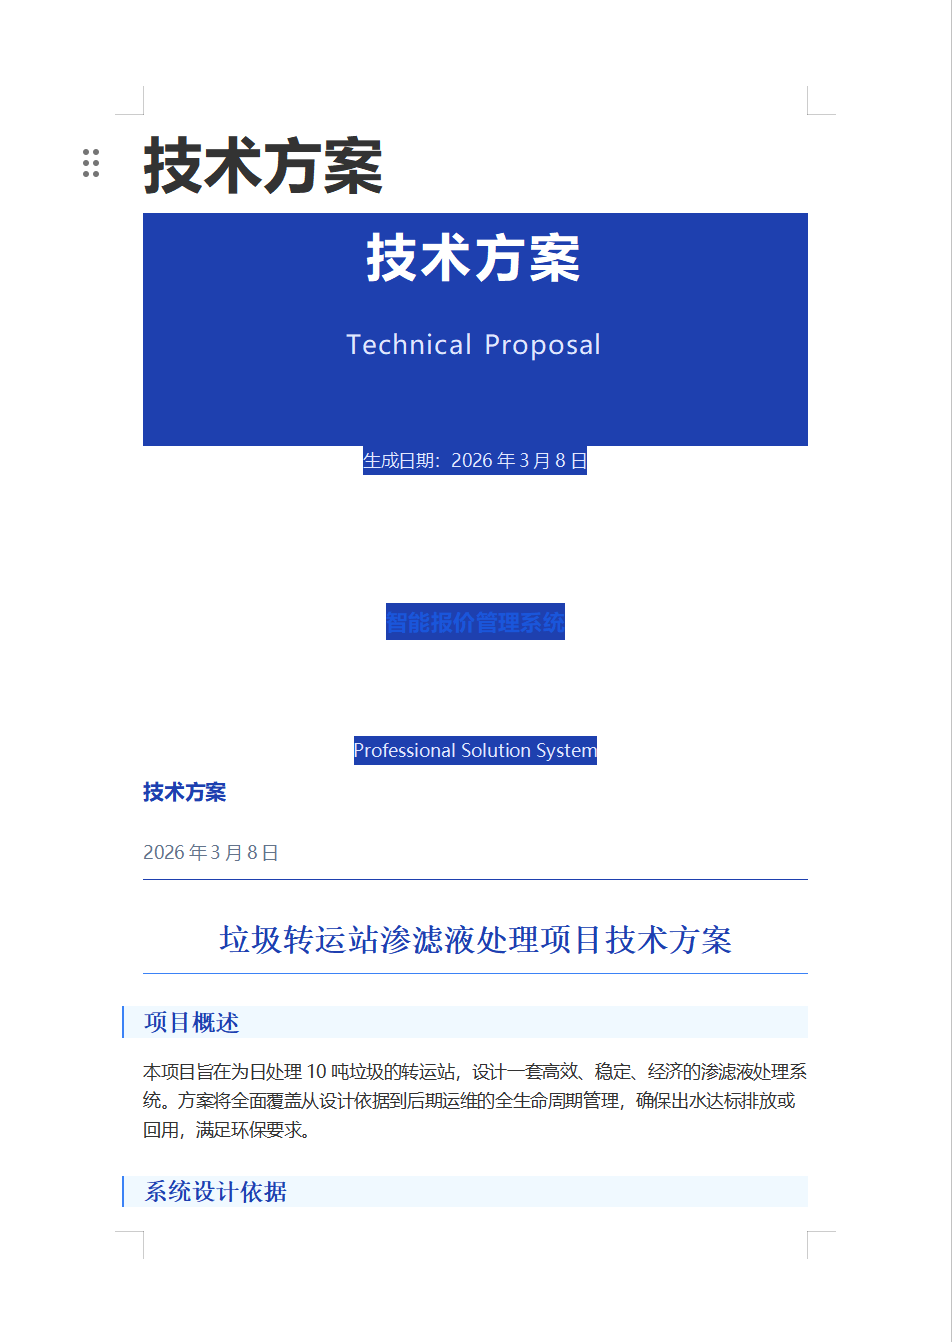
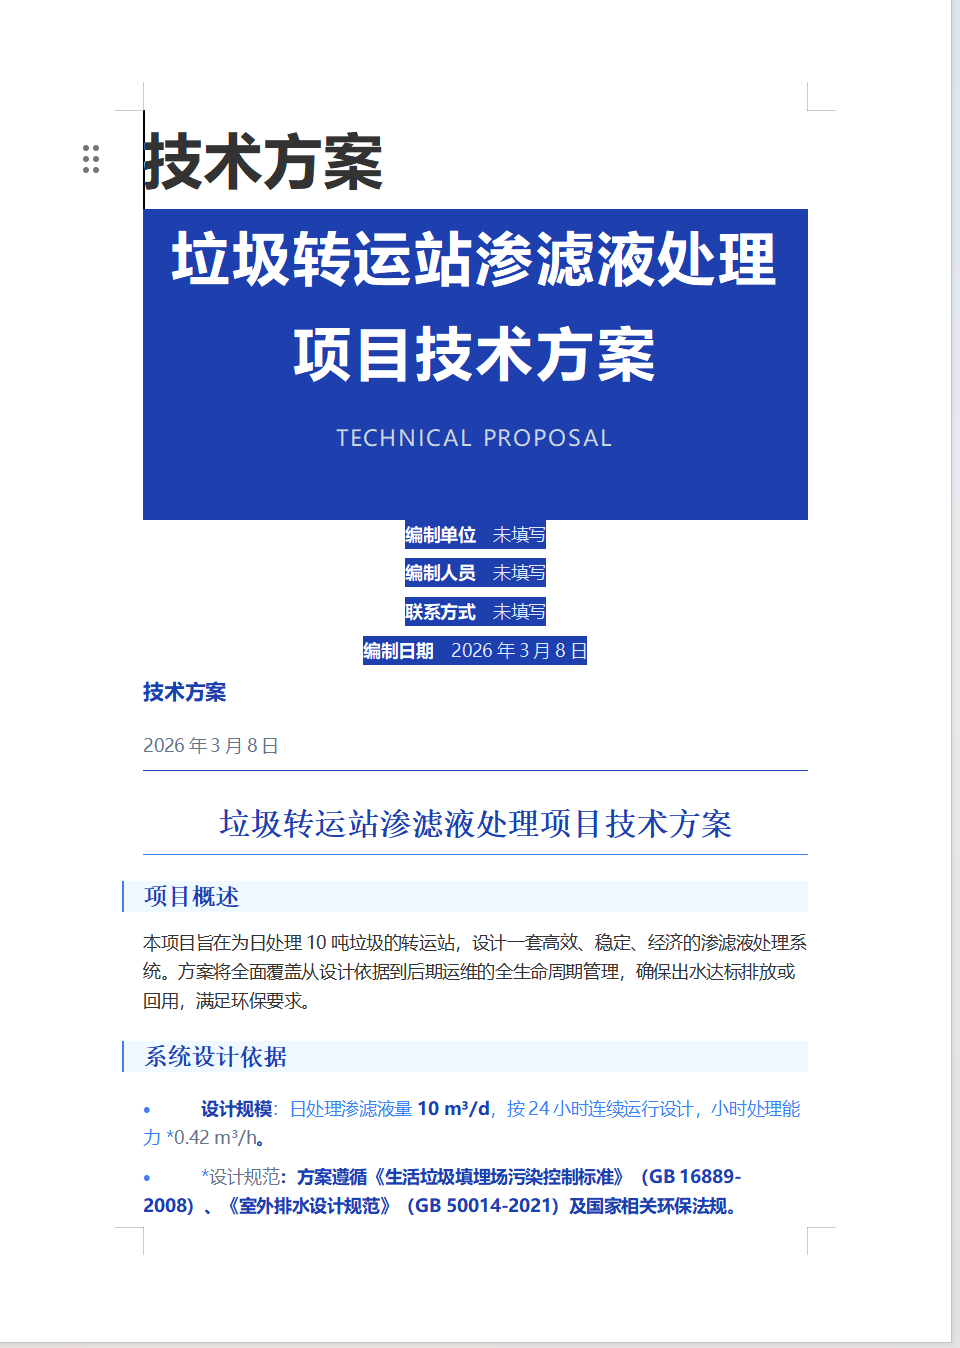
优化封面布局和Word文档分页

diff --git a/src/components/chat-message.tsx b/src/components/chat-message.tsx
@@ -954,30 +954,31 @@ export default function ChatMessage({
     /* 封面样式 - 优化版 */
     .cover {
       text-align: center;
-      padding: 40pt 0;
+      padding: 20pt 0;
       page-break-after: always;
       background: #1e40af;
       color: white;
-      min-height: 75vh;
+      min-height: 90vh;
       display: flex;
       flex-direction: column;
-      justify-content: center;
+      justify-content: flex-start;
       -webkit-print-color-adjust: exact;
       print-color-adjust: exact;
     }
 
     .cover-title {
-      font-size: 36pt;
+      font-size: 38pt;
       font-weight: 700;
       color: #ffffff;
-      margin-bottom: 12pt;
+      margin-bottom: 10pt;
+      margin-top: 60pt;
       letter-spacing: 2pt;
     }
 
     .cover-subtitle {
       font-size: 14pt;
       color: #cbd5e1;
-      margin-bottom: 40pt;
+      margin-bottom: 35pt;
       font-weight: 400;
       letter-spacing: 1pt;
       text-transform: uppercase;
@@ -987,19 +988,21 @@ export default function ChatMessage({
       width: 100pt;
       height: 2pt;
       background: #3b82f6;
-      margin: 0 auto 30pt;
+      margin: 0 auto 25pt;
     }
 
     .cover-info {
       font-size: 11pt;
       color: #e0e7ff;
-      margin-top: 0;
-      line-height: 2.2;
+      margin: 0 auto;
+      max-width: 500pt;
+      line-height: 2.4;
+      text-align: left;
     }
 
     .cover-info p {
       text-indent: 0;
-      margin: 6pt 0;
+      margin: 5pt 0;
       color: #e0e7ff;
       font-weight: 400;
     }
@@ -1007,6 +1010,19 @@ export default function ChatMessage({
     .cover-info strong {
       color: #ffffff;
       font-weight: 600;
+      display: inline-block;
+      min-width: 80pt;
+    }
+    
+    /* 分页控制 - 强制封面独占一页 */
+    .page-break {
+      page-break-after: always;
+      break-after: page;
+    }
+    
+    .page-break-before {
+      page-break-before: always;
+      break-before: page;
     }
     
     /* 页眉 - 简洁 */
@@ -1220,8 +1236,11 @@ export default function ChatMessage({
     </div>
   </div>
   
+  <!-- 分页控制 - 确保正文从新页开始 -->
+  <div style="page-break-after: always; break-after: page;"></div>
+  
   <!-- 正文 -->
-  <div class="content">
+  <div class="content page-break-before">
     <!-- 页眉 -->
     <div class="header">
       <div class="header-title">技术方案</div>
@@ -1373,30 +1392,31 @@ export default function ChatMessage({
     /* 封面样式 - 优化版 */
     .cover {
       text-align: center;
-      padding: 40px 0;
+      padding: 20px 0;
       page-break-after: always;
       background: #1e40af;
       color: white;
-      min-height: 75vh;
+      min-height: 70vh;
       display: flex;
       flex-direction: column;
-      justify-content: center;
+      justify-content: flex-start;
       -webkit-print-color-adjust: exact;
       print-color-adjust: exact;
     }
     
     .cover-title {
-      font-size: 36px;
+      font-size: 38px;
       font-weight: bold;
       color: #ffffff;
-      margin-bottom: 12px;
+      margin-bottom: 10px;
+      margin-top: 60px;
       letter-spacing: 2px;
     }
     
     .cover-subtitle {
       font-size: 14px;
       color: #cbd5e1;
-      margin-bottom: 40px;
+      margin-bottom: 35px;
       font-weight: 400;
       letter-spacing: 1px;
       text-transform: uppercase;
@@ -1406,25 +1426,29 @@ export default function ChatMessage({
       width: 100px;
       height: 2px;
       background: #3b82f6;
-      margin: 0 auto 30px;
+      margin: 0 auto 25px;
     }
     
     .cover-info {
       font-size: 13px;
       color: #e0e7ff;
-      margin-top: 0;
-      line-height: 2.2;
+      margin: 0 auto;
+      max-width: 500px;
+      line-height: 2.4;
+      text-align: left;
     }
     
     .cover-info p {
       text-indent: 0;
-      margin: 6px 0;
+      margin: 5px 0;
       color: #e0e7ff;
     }
     
     .cover-info strong {
       color: #ffffff;
       font-weight: 600;
+      display: inline-block;
+      min-width: 80px;
     }
     
     /* 页眉 */
@@ -1689,8 +1713,11 @@ export default function ChatMessage({
     </div>
   </div>
   
+  <!-- 分页控制 - 确保正文从新页开始 -->
+  <div style="page-break-after: always; break-after: page;"></div>
+  
   <!-- 正文 -->
-  <div class="content">
+  <div class="content page-break-before">
     <!-- 页眉 -->
     <div class="header">
       <div class="header-title">技术方案</div>
